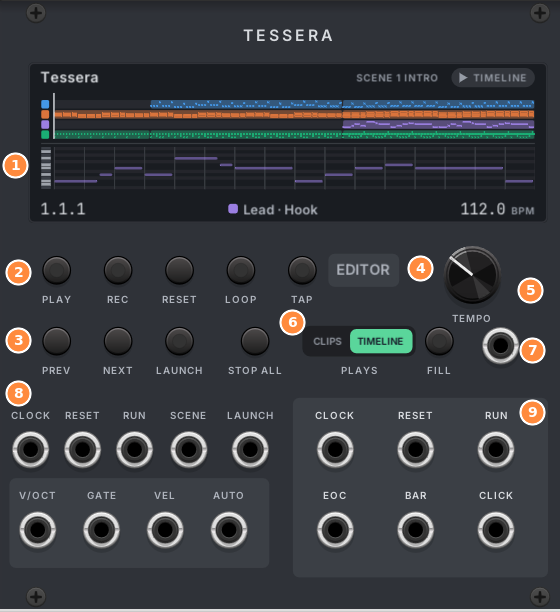
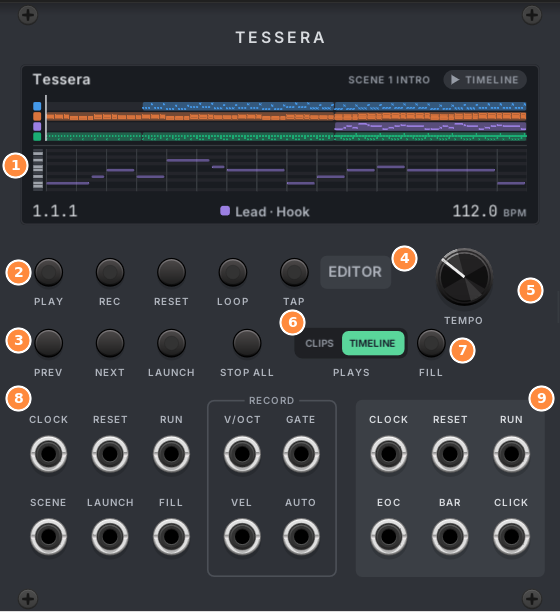
Put the Tessera panel's jacks on one even grid with the record inputs in a RECORD box

diff --git a/src/ui/TesseraWidget.cpp b/src/ui/TesseraWidget.cpp
@@ -56,16 +56,17 @@ struct PanelExtension : rack::widget::Widget {
     }
 };
 constexpr float kButtonCol[5] = {12, 25, 38, 51, 64};
-constexpr float kJackRow1 = 95;
-constexpr float kJackRow2 = 112;
-constexpr float kInputCol[4] = {8, 21.5f, 35, 48.5f};
-constexpr float kTopInputCol[5] = {6.5f, 17.5f, 28.5f, 40, 53}; // CLOCK joins the first row
-const Rect kRecordPlate(2, 101, 55, 19);
-const Rect kOutputPlate(62, 84, 54, 38);
-constexpr float kOutputCol[3] = {71, 88, 105};
+// All 16 jacks sit on one 8 x 2 grid: inputs, then the record inputs in their box, then the outputs on the plate.
+// The first three columns line up with the buttons above.
+constexpr float kJackRow1 = 95.5f;
+constexpr float kJackRow2 = 113;
+constexpr float kInputCol[3] = {12, 25, 38};
+constexpr float kRecordCol[2] = {53, 65.5f};
+constexpr float kOutputCol[3] = {84, 97, 110};
+const Rect kRecordBox(45.5f, 84, 27.5f, 37.5f);
+const Rect kOutputPlate(77, 84, 40, 37.5f);
 constexpr float kStopAllCol = 54; // its label is wide
 constexpr float kFillCol = 93;
-constexpr float kFillJackCol = 106;
 constexpr float kPlaysCol = 76;
 
 /// PLAYS: what the tracks play, the clips or the timeline. One switch with two halves; the lit half plays, and a
@@ -166,7 +167,6 @@ struct TesseraWidget : rack::app::ModuleWidget {
         panel.param<VCVButton>(Vec(kStopAllCol, kSceneRow), M::STOP_ALL_PARAM, "STOP ALL");
         panel.lightParam<VCVLightButton<MediumSimpleLight<QueueLight>>>(Vec(kFillCol, kSceneRow), M::FILL_PARAM,
                                                                         M::FILL_LIGHT, "FILL");
-        panel.input(Vec(kFillJackCol, kSceneRow + 1), M::FILL_INPUT, "");
         panel.param<PlaysSwitch>(Vec(kPlaysCol, kSceneRow), M::MODE_PARAM, "PLAYS");
 
         ToolButton::Options open;
@@ -180,17 +180,19 @@ struct TesseraWidget : rack::app::ModuleWidget {
         editorButton->box.pos = rack::mm2px(kEditorButton).minus(editorButton->box.size.div(2));
         addChild(editorButton);
 
-        panel.input(Vec(kTopInputCol[0], kJackRow1), M::CLOCK_INPUT, "CLOCK");
-        panel.input(Vec(kTopInputCol[1], kJackRow1), M::RESET_INPUT, "RESET");
-        panel.input(Vec(kTopInputCol[2], kJackRow1), M::RUN_INPUT, "RUN");
-        panel.input(Vec(kTopInputCol[3], kJackRow1), M::SCENE_INPUT, "SCENE");
-        panel.input(Vec(kTopInputCol[4], kJackRow1), M::LAUNCH_INPUT, "LAUNCH");
-        // The record inputs, on a plate of their own so they read as one group.
-        panel.art().addPlate(kRecordPlate);
-        panel.input(Vec(kInputCol[0], kJackRow2), M::REC_VOCT_INPUT, "V/OCT");
-        panel.input(Vec(kInputCol[1], kJackRow2), M::REC_GATE_INPUT, "GATE");
-        panel.input(Vec(kInputCol[2], kJackRow2), M::REC_VEL_INPUT, "VEL");
-        panel.input(Vec(kInputCol[3], kJackRow2), M::AUTO_REC_INPUT, "AUTO");
+        // The inputs mirror the outputs: transport on the top row, both sides.
+        panel.input(Vec(kInputCol[0], kJackRow1), M::CLOCK_INPUT, "CLOCK");
+        panel.input(Vec(kInputCol[1], kJackRow1), M::RESET_INPUT, "RESET");
+        panel.input(Vec(kInputCol[2], kJackRow1), M::RUN_INPUT, "RUN");
+        panel.input(Vec(kInputCol[0], kJackRow2), M::SCENE_INPUT, "SCENE");
+        panel.input(Vec(kInputCol[1], kJackRow2), M::LAUNCH_INPUT, "LAUNCH");
+        panel.input(Vec(kInputCol[2], kJackRow2), M::FILL_INPUT, "FILL");
+
+        panel.art().addGroupBox(kRecordBox, "RECORD");
+        panel.input(Vec(kRecordCol[0], kJackRow1), M::REC_VOCT_INPUT, "V/OCT");
+        panel.input(Vec(kRecordCol[1], kJackRow1), M::REC_GATE_INPUT, "GATE");
+        panel.input(Vec(kRecordCol[0], kJackRow2), M::REC_VEL_INPUT, "VEL");
+        panel.input(Vec(kRecordCol[1], kJackRow2), M::AUTO_REC_INPUT, "AUTO");
 
         panel.art().addPlate(kOutputPlate);
         panel.output(Vec(kOutputCol[0], kJackRow1), M::CLOCK_OUTPUT, "CLOCK");

diff --git a/src/ui/widgets/Panel.cpp b/src/ui/widgets/Panel.cpp
@@ -39,6 +39,8 @@ void PanelArt::addPlate(rack::math::Rect mm) { plates.push_back(mm); }
 
 void PanelArt::addSunkPlate(rack::math::Rect mm) { sunkPlates.push_back(mm); }
 
+void PanelArt::addGroupBox(rack::math::Rect mm, const std::string& title) { groupBoxes.push_back({mm, title}); }
+
 void PanelArt::step() {
     // The artwork is cached; repaint it when Rack's panel setting (or the scheme) changes.
     if (drawnGeneration != theme::generation()) {
@@ -67,6 +69,18 @@ void PanelArt::draw(const DrawArgs& args) {
         rack::math::Rect r(rack::mm2px(p.pos), rack::mm2px(p.size));
         draw::roundedRect(vg, r, theme::metrics::kPanelPlateRadius, c.bg1);
         draw::roundedRectStroke(vg, r, theme::metrics::kPanelPlateRadius, c.line0, 0.75f);
+    }
+
+    for (const GroupBox& g : groupBoxes) {
+        rack::math::Rect r(rack::mm2px(g.mm.pos), rack::mm2px(g.mm.size));
+        draw::roundedRectStroke(vg, r, theme::metrics::kPanelPlateRadius, c.line2, 1.f);
+        draw::TextStyle style = labelStyle(LabelKind::Section);
+        style.align = NVG_ALIGN_CENTER | NVG_ALIGN_MIDDLE;
+        // The panel colour behind the title cuts a gap into the top edge.
+        float gap = draw::textWidth(vg, style, g.title) + 2 * theme::metrics::kPanelGroupTitlePad;
+        float x = r.getCenter().x;
+        draw::roundedRect(vg, rack::math::Rect(x - gap / 2, r.pos.y - 2, gap, 4), 0, c.bg1);
+        draw::text(vg, style, x, r.pos.y + 0.5f, g.title);
     }
 
     for (const Label& l : labels) {

diff --git a/src/ui/widgets/Panel.hpp b/src/ui/widgets/Panel.hpp
@@ -37,6 +37,9 @@ class PanelArt : public rack::widget::Widget {
     void addPlate(rack::math::Rect mm);
     /// A recessed tray inside a plate, such as one mixer-style strip of jacks per drum lane.
     void addSunkPlate(rack::math::Rect mm);
+    /// A thin outline with its title set into the top edge, naming a group of inputs. Not a plate: plates mean
+    /// outputs.
+    void addGroupBox(rack::math::Rect mm, const std::string& title);
 
     void draw(const DrawArgs& args) override;
     void step() override;
@@ -51,6 +54,11 @@ class PanelArt : public rack::widget::Widget {
     std::vector<Label> labels;
     std::vector<rack::math::Rect> plates;
     std::vector<rack::math::Rect> sunkPlates;
+    struct GroupBox {
+        rack::math::Rect mm;
+        std::string title;
+    };
+    std::vector<GroupBox> groupBoxes;
 };
 
 /// Builds a module panel: the cached artwork, screws, and controls with their labels in one call each.

diff --git a/src/ui/Theme.hpp b/src/ui/Theme.hpp
@@ -145,6 +145,7 @@ constexpr float kPanelLabelSpacing = 0.6f; // letter spacing for uppercase label
 constexpr float kPanelTitle = 12;
 constexpr float kPanelDisplayRadius = 3;
 constexpr float kPanelPlateRadius = 4;
+constexpr float kPanelGroupTitlePad = 3;       // room on each side of a group box's title, cut into its top edge
 constexpr float kPanelLabelAboveJackMm = 6.4f; // label baseline offset above a jack's center
 constexpr float kDisplaySmall = 9;
 constexpr float kDisplayLarge = 22;

diff --git a/docs/manual/02-modules.md b/docs/manual/02-modules.md
@@ -60,13 +60,21 @@ The same switch is in the editor's transport bar. See [Clips and scenes](05-clip
 
 ### 7. FILL
 
-Hold the **FILL** button, or send a high gate to the **FILL** input next to it, to turn "fill" on. Notes set to play
-"only in a fill" (or "only when not in a fill") follow it. This is handy for drum fills. In the editor, F1 does the
-same.
+Fill lets one clip hold both its normal pattern and a variation, such as a drum fill, and you choose when the
+variation plays. Hold the **FILL** button, or keep the **FILL** input high (see [Inputs](#8-inputs)), and fill is on.
+Let go and it is off again. In the editor, F1 does the same.
+
+What fill changes is up to you: set a note's **Only when…** to **Fill** and it plays only while fill is on, or to
+**Not fill** and it goes quiet while fill is on (see [Shaping notes](08-shaping-notes.md#operators-notes-that-change-from-pass-to-pass)).
+
+For example: add a tom roll to the last beat of a one-bar drum clip and set its notes to **Fill**. Set the hi-hats
+on that beat to **Not fill**. The clip plays its normal beat until you hold FILL; then the toms play instead of the
+hats.
 
 ### 8. Inputs
 
-The top row controls the transport. The box below it is for recording.
+The inputs sit on the left: the top row controls the transport, the row below it scenes and fill. The four jacks
+in the box named **RECORD** are for recording.
 
 | Input | What it does |
 |---|---|
@@ -75,6 +83,7 @@ The top row controls the transport. The box below it is for recording.
 | **RUN** | Starts and stops the transport. In the module menu choose **Toggle** (each trigger starts or stops) or **Gate** (plays while high). |
 | **SCENE** | Picks the scene that LAUNCH starts. In the menu choose **0.1 V per scene** or **1 semitone per scene** (so a keyboard can pick scenes). |
 | **LAUNCH** | A trigger launches the picked scene. |
+| **FILL** | Fill is on while the input is above 1 V, or while the FILL button is held. See [FILL](#7-fill). |
 | **V/OCT** | Record input: the pitch of each note, per poly channel. |
 | **GATE** | Record input: a note starts when the gate rises above 1 V and ends when it falls below 0.1 V. |
 | **VEL** | Record input: velocity, 0 to 10 V. Without a cable, notes get 80%. |
@@ -82,7 +91,8 @@ The top row controls the transport. The box below it is for recording.
 
 ### 9. Outputs
 
-All outputs line up exactly with the notes on the output modules.
+The outputs sit on the raised plate at the right. Its top row mirrors the transport inputs. All outputs line up
+exactly with the notes on the output modules.
 
 | Output | What it sends |
 |---|---|

diff --git a/docs/DECISIONS.md b/docs/DECISIONS.md
@@ -1420,3 +1420,14 @@ Why: Trello "Swing: let's research properly"; proposal https://claude.ai/artifac
 - **The swing hints can be turned off** (2 Nov): "Show swing in the editor" in the swing menu (on by default) hides the
   ticks and draws the grid straight; swing still plays. It is a view setting, saved with the editor's layout, not
   with the song.
+
+## 93. The Tessera panel's jacks on one 8 x 2 grid (2 Nov)
+
+- **All 16 jacks share two rows and even columns.** Left: CLOCK RESET RUN over SCENE LAUNCH FILL, lined up under
+  the buttons. Middle: V/OCT GATE over VEL AUTO in an outlined box titled RECORD. Right, on the output plate: CLOCK
+  RESET RUN over EOC BAR CLICK, so the transport row mirrors the inputs.
+- **The FILL jack moved** from under TEMPO, where it had no label and read as a tempo input, into the inputs.
+- **Record inputs get an outline, not a plate** (`PanelArt::addGroupBox`): a filled plate means outputs.
+- Jack IDs are unchanged, so saved cables stay on their jacks.
+
+Why: the user found the old jack area messy (two plates of different sizes, inputs on a plate, uneven spacing).
